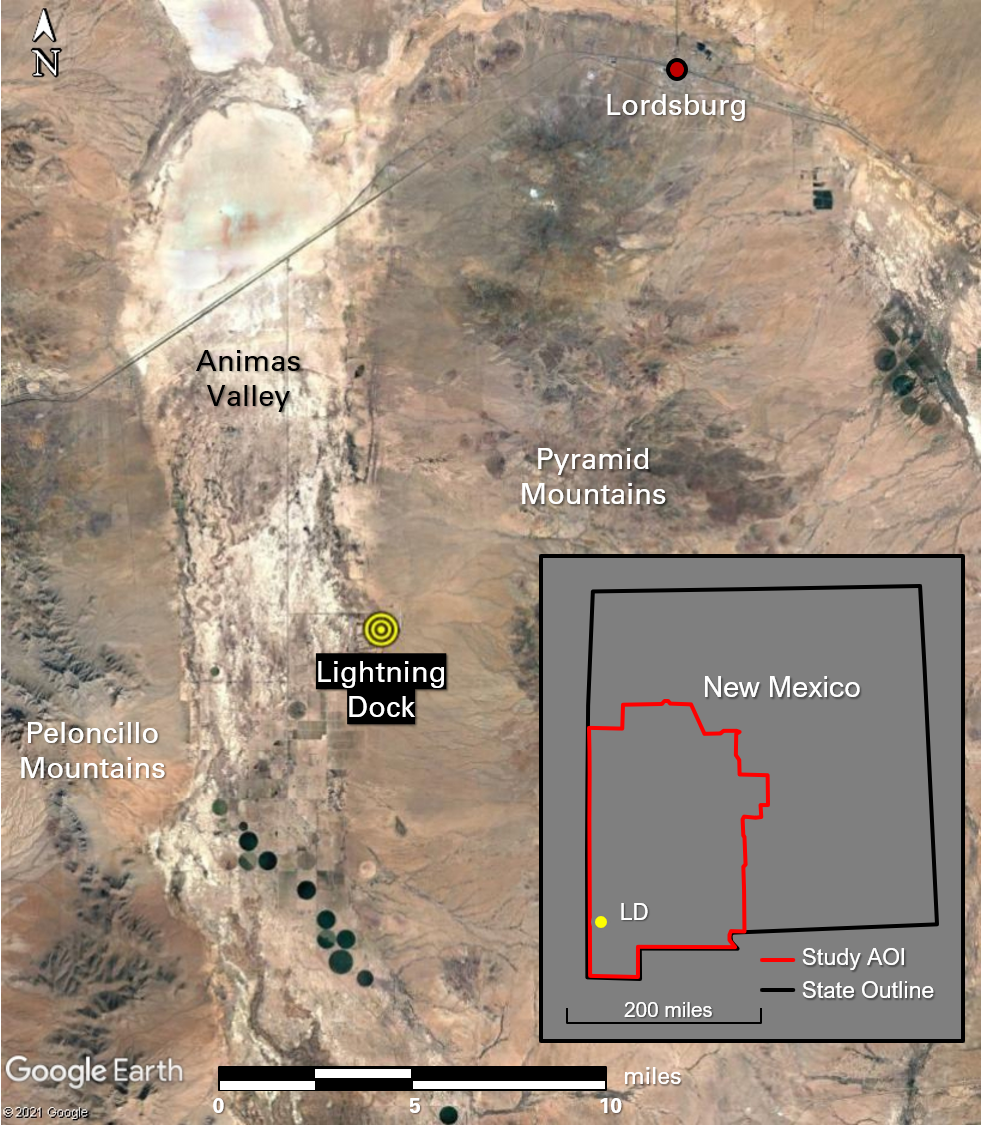
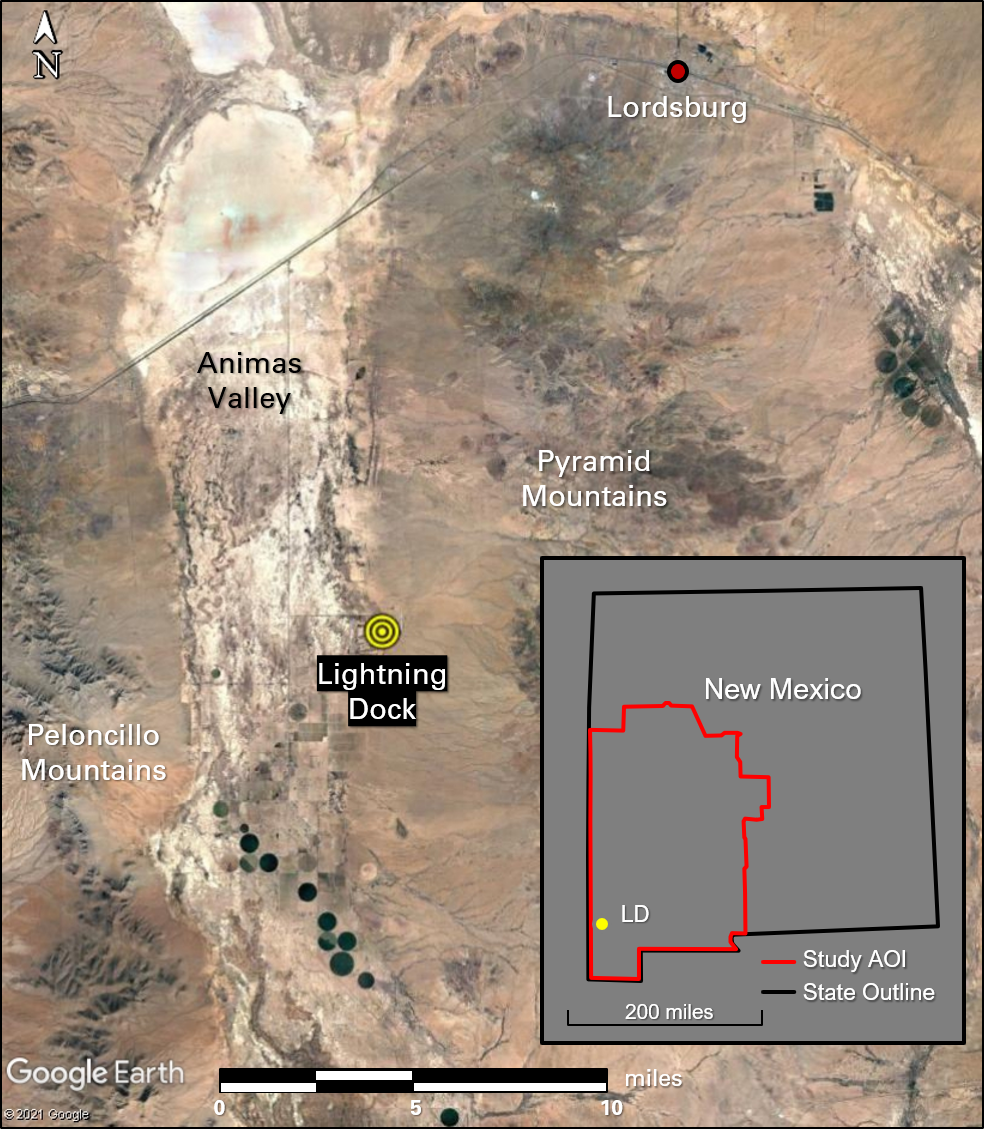
Finished section on Lightning Dock

diff --git a/templates/chap2.tex b/templates/chap2.tex
@@ -35,7 +35,7 @@ Conduction dominates on local scales in the crust, while convection is the prima
 \begin{equation}\label{eq:convection}
 \frac{\partial T}{\partial t} = \frac{1}{\rho c_P}\nabla\bullet\left(k\nabla T\right)-{\bf u}\bullet\nabla T
 \end{equation}
-where \textbf{u} = ($u_x$, $u_z$) is the velocity of the fluid, $\rho$ is the material density, and $c_P$ is the specific heat, which defines the amount of heat necessary to raise 1 kg of that material by $1$ K. Convection combines heat transfer from conduction with mass movement. Since the minerals are relatively poor conductors of heat, the combined effects of lower viscosity and thermal expansion --– as seen near the core-mantle boundary –- and gravitational forces responsible for buoyancy effects, all create the right conditions for convective flow \citep[p.\ 25]{glassley_geothermal_2015}. Mantle convection is responsible for the high heat-flow values observed at crustal-plate boundaries like mid-ocean ridges, as well as intraplate diapiric hot spots underlying Hawaii, Yellowstone, and several other locations around the world. Smaller-scale convection also takes place at subduction zones where the material from the down-diving plate melts at lower temperatures with the presence of water, migrates upwards, and forms volcanic arcs on the surface as observed in Japan, Indonesia, and the Pacific Northwest of the U.S.\ \citep[p.\ 31-33]{press_understanding_2004} --– all locations with geothermal potential.
+where \textbf{u} = ($u_x$, $u_z$) is the velocity of the fluid, $\rho$ is the material density, and $c_P$ is the specific heat, which defines the amount of heat necessary to raise 1 kg of that material by $1$ K. Convection combines heat transfer from conduction with mass movement. Since the minerals are relatively poor conductors of heat, the combined effects of lower viscosity and thermal expansion --– as seen near the core-mantle boundary –- and gravitational forces responsible for buoyancy effects, all create the right conditions for convective flow \citep[p.\ 25]{glassley_geothermal_2015}. Mantle convection is responsible for the high heat-flow values observed at crustal plate boundaries like mid-ocean ridges, as well as intraplate diapiric hot spots underlying Hawaii, Yellowstone, and several other locations around the world. Smaller-scale convection also takes place at subduction zones where the material from the down-diving plate melts at lower temperatures with the presence of water, migrates upwards, and forms volcanic arcs on the surface as observed in Japan, Indonesia, and the Pacific Northwest of the U.S.\ \citep[p.\ 31-33]{press_understanding_2004} --– all locations with geothermal potential.
 
 Heat-flow measurements capture the flux of heat through the Earth’s surface as a result of these and other complex processes taking place in the subsurface. In this respect, it serves as a simpler and more accessible metric for local or regional heat potential than the more sparsely-measured geothermal gradient. Today, high-quality heat flow measurements can be obtained in marine conditions, along continental margins, on mid-ocean ridges, and from the multitude of wells drilled by the oil \& gas industry, supporting the creation of large heat-flow data sets like the New Global Heat Flow Database \citep{lucazeau_analysis_2019}. As Figure \ref{fig:heatflow} shows, data from these collections can be gridded to create spectacular maps of heat flow variations around the world. These maps offer a good starting point for quickly targeting where the greatest geothermal potential exists at the regional scale, which can then be further refined through additional methods (see Section \ref{ch2:geoexp}).
 
@@ -102,8 +102,7 @@ In some cases, the potential for a geothermal system exists even when one or mor
 \label{fig:egs_schematic}
 \end{figure}
 
-EGS can provide the bridge between geothermal use in niche hydrothermal environments and a more comprehensive adoption of geothermal energy for electricity generation across the United States. The sources of subsurface heat (see Section \ref{ch2:heatorig}) exist everywhere, so accessing a range of temperatures that could support power production relies on drilling deep enough and creating the artificial conditions necessary for heat capture. \acrlong{lanl} (\acrshort{lanl}) validated the EGS approach in crystalline rock at Fenton Hill beginning in 1974. Feasibility studies followed soon thereafter in Japan, Germany, the U.K., and France \citep{breede_systematic_2013}. Among the most notable EGS projects that provided key lessons %learned
-are The Geysers (U.S.), Soultz-sous-Forêts (France), and Cooper Basin (Australia). The Geysers stands out as the largest geothermal power-generating complex in the world, providing $\approx1,000$ MWe for California even after 60 years of steam production \citep{jelacic_evaluation_2008,williams_assessment_2008}. Although drilling issues and public concern over induced seismicity halted efforts \citep{manish03_united_2009}, rock-stimulation experiments in the Northwest Geysers proved distinct reservoirs can be developed adjacent to active hydrothermal operations \citep{pan_establishment_2019}. The Soultz project commenced in 1987 with one injector and two producers drilled to 5 km depth to support a 1.5 MW power plant built in 2007-2008 \citep[p.\ 463]{dipippo_geothermal_2012}. In addition to many experimental lessons learned around drilling, hydrofracturing, chemical stimulation, scaling and corrosion, Soultz today supports both electricity production and direct-use district heating \citep{durst_overview_2013}. Cooper Basin, the largest EGS demonstration project in the world, showed great promise after a 6-year proof-of-concept phase \citep{stephens_assessing_2010}. However, the project halted in 2015 due poor stimulation results tied to an unrecognized fault, highlighting the importance of robust structural appraisal in assessing geothermal prospects \citep{holl_what_2015}. 
+EGS can provide the bridge between geothermal use in niche hydrothermal environments and a more comprehensive adoption of geothermal energy for electricity generation across the United States. The sources of subsurface heat (see Section \ref{ch2:heatorig}) exist everywhere, so accessing a range of temperatures that could support power production relies on drilling deep enough and creating the artificial conditions necessary for heat capture. \acrlong{lanl} (\acrshort{lanl}) validated the EGS approach in crystalline rock at Fenton Hill beginning in 1974. Feasibility studies followed soon thereafter in Japan, Germany, the U.K., and France \citep{breede_systematic_2013}. Among the most notable EGS projects that provided key lessons learned are The Geysers (U.S.), Soultz-sous-Forêts (France), and Cooper Basin (Australia). The Geysers stands out as the largest geothermal power-generating complex in the world, providing $\approx1,000$ MWe for California even after 60 years of steam production \citep{jelacic_evaluation_2008,williams_assessment_2008}. Although drilling issues and public concern over induced seismicity halted efforts \citep{larson_altarock_2009}, rock-stimulation experiments in the Northwest Geysers proved distinct reservoirs can be developed adjacent to active hydrothermal operations \citep{pan_establishment_2019}. The Soultz project commenced in 1987 with one injector and two producers drilled to 5 km depth to support a 1.5 MW power plant built in 2007-2008 \citep[p.\ 463]{dipippo_geothermal_2012}. In addition to many experimental lessons learned around drilling, hydrofracturing, chemical stimulation, scaling and corrosion, Soultz today supports both electricity production and direct-use district heating \citep{durst_overview_2013}. Cooper Basin, the largest EGS demonstration project in the world, showed great promise after a 6-year proof-of-concept phase \citep{stephens_assessing_2010}. However, the project halted in 2015 due poor stimulation results tied to an unrecognized fault, highlighting the importance of robust structural appraisal in assessing geothermal prospects \citep{holl_what_2015}. 
 
 As the fate of these projects might suggest, the long-standing promise of EGS has not yet been fully realized. However, several active projects supported by the \acrlong{nrel} (\acrshort{nrel}) and the DOE (e.g., EDGE, FORGE, EGS Collab) are providing the insights necessary to mature subsurface models, drilling technologies, and stimulation methods for more widespread EGS adoption \citep{hamm_geothermal_2021}. And recent technology advances and partnerships involving start-ups Fervo Energy \citep{moss_google_2021,shieber_geothermal_2021}, Deep Earth Energy \citep{geoenergy_saskatchewan_2021}, Eavor Technologies \citep{ross_energy_2020}, and Climeon \citep{climeon_climeon_2021,geoenergy_baseload_2020} show there is a growing fervor to overcome the technology roadblocks currently holding EGS back. Projections show the size of the prize with success in EGS. Assuming a maximum cut-off depth of 7 km and a minimum reservoir temperature of 150$^\circ$C, the EGS resource potential for electricity production in the continental United States might be at least 5,150 GWe, with an additional $\approx1,500$ MWe from Near Hydrothermal Field-EGS (\acrshort{nfegs}) \citep{augustine_geovision_2019}. To put this opportunity into context: the total utility-scale electricity generation capacity from \underline{all} sources in the United States was $\approx1,200$ GWe in 2019, over 4$\times$ less in magnitude than the predicted EGS potential \citep{eia_electric_2020}.
 
@@ -171,7 +170,7 @@ Temperature survey      & heat flow, geothermal gradient
 
 Geologic field mapping in an area can provide crucial direct evidence supporting the presence of geothermal systems. Surface manifestations like geysers, vents, and mud pots may also be coincident with mappable mineralogic indicators of the subsurface chemistry and style of geothermal activity.  Volcanic-based geothermal systems tend to have acid-sulfate waters with hydrogen sulfide-rich brines that leave behind sulfur deposits \citep[p.\ 123]{glassley_geothermal_2015}. Bicarbonate geothermal waters can produce distinctive travertine terraces or subaqueous tufa deposits, as well as a unique variety of K-spar called adularia \citep[p.\ 125]{glassley_geothermal_2015}. And chloride geothermal fluids are known to precipitate sinter or geyserite deposits composed of opal or amorphous silica \citep[p.\ 125]{glassley_geothermal_2015}. Elevated abundances of trace elements like boron and lithium typically occur in chloride brines compared to meteoric (derived from precipitation) waters, so their presence in mineral assemblages is also diagnostic \citep{bielicki_hydrogeolgic_2015, millot_multi-isotopic_2007}. Other valuable products of a geologic survey include maps of surface fault patterns to better constrain the structural history, as well as volcanic intrusive (dikes) and extrusive (flows) features for understanding the thermal history and potential deeper reservoir potential.
 
-Direct geochemical analysis of springs, pools, and samples collected from wells provides additional insights into the hydrologic characteristics of an area. Water chemistry offers information on the dominant resource fluid phase (vapor vs.\ liquid), the temperature of the subsurface formations encountered by the fluids, and the nature of the original water source \citep[p.\ 25]{dipippo_geothermal_2012}. The concentration or equilibria of different elements e.g., quartz, chalcedony, sodium, potassium, and calcium, can be compared to empirically-derived trends for reservoir-temperature estimates \citep[p.\ 157]{glassley_geothermal_2015}. These geothermometry methods offer insights into the deep thermal regime, although uncertainty around fluid migration pathways disallows any clear designation of the exact location and depth of a thermal reservoir.
+Direct geochemical analysis of springs, pools, and samples collected from wells provides additional insights into the hydrologic characteristics of an area. Water chemistry offers information on the dominant resource fluid phase (vapor vs.\ liquid), the temperature of the subsurface formations encountered by the fluids, and the nature of the original water source \citep[p.\ 25]{dipippo_geothermal_2012}. The concentration or equilibria of different elements, e.g., quartz, chalcedony, sodium, potassium, and calcium, can be compared to empirically-derived trends for reservoir temperature estimates \citep[p.\ 157]{glassley_geothermal_2015}. These geothermometry methods offer insights into the deep thermal regime, although uncertainty around fluid migration pathways disallows any clear designation of the exact location and depth of a thermal reservoir.
 
 Field methods like water sampling and geologic mapping provide local insights that can be aggregated for a bigger picture understanding of an area, with the caveat that field data are often limited in number and spatial distribution. Aerial and satellite surveys gather regionally-extensive measurements without the spatial sampling bias implicit in field activities. High-resolution topography captured in \acrlong{dem} (\acrshort{dem}) and DEM gradient (slope) can reveal morphology patterns tied to surface water drainage and recharge potential for deeper geothermal systems. Other optical products provide additional information of value; infrared imagery captures thermal anomalies in the shallow subsurface, stereographic images emphasize fault offsets missed in the field, and hyperspectral imaging can discriminate between different mineral assemblages, including geothermally-sourced boron-rich accumulations \multicitep{dipippo_geothermal_2012, p.\ 22;glassley_geothermal_2015, p.\ 154-155}.
 
@@ -227,7 +226,7 @@ This thesis considers a modeling approach where all three types of uncertainty a
 
 Geothermal facilities share similarities with many other methods of energy capture. Fundamentally, the primary value function at the center of a facility is producing power, further specified as a turbine generating electricity (Figure \ref{fig:solution_neutral}). This solution-neutral function could be specified into a variety of concepts that involve different operands --- wind, solar, water, hydrocarbons --- to produce the same result.  For geothermal, the common concepts include steam plants, flash plants, and binary cycle plants. Each concept has a range of temperatures and typical depths over which it is best suited to operate. Additional applications for geothermal are depicted in Figure \ref{fig:geotherm_apps}, including heat pumps and direct use, however those concepts abstract to a different functional intent than energy production. Also shown are specific types of geothermal systems like hot sedimentary basins, co-production from non-geothermal wells, and EGS. Note that the EGS oval could extend shallower for tight reservoirs as proposed in Chapter 4, but deeper wells (> 3-5 km) become more challenging to justify primarily due to cost of drilling \citep{moore_more_2013}.
 
-\begin{figure}[htp!]
+\begin{figure}%[htp!]
 \centering
 \includegraphics[width=\textwidth]{templates/images/Figure-Geothermal_Use_Moore2013.png}
 \caption[Geothermal applications by temperature and depth]{Traditional temperatures and depths associated with different geothermal applications. Boiling point defines the upper bound for geothermal use. Ellipses are approximate. Figure adapted from \protect\citep{moore_more_2013}.}
@@ -279,7 +278,8 @@ Because natural drive of the brine from subsurface to surface diminishes at lowe
 \label{fig:binary_plant}
 \end{figure}
 
-\section{Cost Modeling}\label{ch2:costmod}
+\section{Cost Modeling}
+\label{ch2:cost_models}
 
 \subsection{Review of Approaches}
 
@@ -312,18 +312,20 @@ The \acrlong{cp} (\acrshort{cp}) province presents a very different geologic pic
 
 On the western side of the AOI is the \acrlong{mdvf} (\acrshort{mdvf}), a 15,000 square mile outpouring of rhyolitic flows as part of a super-eruptive episode in western New Mexico that preceded rifting in the RGR province \citep{keller_rio_1999}. The timing indicates the thermal source for the MDVF magmas likely originated from a Farallon subduction-related event rather than onset of extension, and extrusive activity only represents a fraction of the total magma volume in the underlying composite pluton \citep{olsen_rio_1987,schneider_crustal_1994}. MDVF is just one of several Late Eocene-Oligocene volcanic fields in a chain from Colorado though to central Mexico, and isotopic dating defines four pulses of surface activity beginning 36 Ma near Las Cruces, NM and ending conclusively 24 Ma after a general westward migration \citep{mcintosh_time-stratigraphic_1992}. Lack of consistent trends in current heat flow measurements across the field match the heterogeneous distribution of volcanic features and extrusive volumes \citep{mcintosh_time-stratigraphic_1992}, although some evidence suggests greater water availability and geothermometry measurements make MDVF worth considering for geothermal exploration \citep{pepin_new_2018}.
 
-\subsection{Lightning Dock (DBGF)} 
+\subsection{Lightning Dock} 
 \label{ch2:lightning_dock}
 
 \begin{wrapfigure}{R}{0.65\linewidth}%[!htp]
 \centering
 \includegraphics[scale=0.6]{templates/images/Figure-Lightning_Dock_Location_composite.png}
-\caption[Lightning Dock location map]{CAPTION}
+\caption[Lightning Dock location map]{Map location of the Lightning Dock power plant. Inset map shows the facility in relationship to the state of NM and study area of interest for Chapters \ref{ch3:expl_prep} and \ref{ch5:expl_ml} of this thesis. Map created using Google Earth.}
 \label{fig:lightning_dock_map}
 \end{wrapfigure}
 
-Present-day commercial geo-thermal activity in New Mexico is limited to a single hydrothermal power plant in Hidalgo County, which defines the boot heel in the southwestern corner of the state (Figure \ref{fig:lightning_dock_map}). The power plant, traditionally known as Lightning Dock and recently renamed the Dale Burgett Geothermal Facility, sits atop a known geothermal resource area documented by the USGS in 1974 \citep{dahal_evaluation_2012}, around twenty (20) miles southwest of Lordsburg, NM. Although the hydrothermal resource was originally blind, boiling water was encountered in 1948 by drilling operations for water wells \citep{elston_geology_1983}. Commercial use of the resource dates back to 1977 to support greenhouse facilities and later, in the 1990s, for aquaculture \citep{crowell_history_2014}. Power production commenced in 2013 under the ownership of Cyrq Energy with a 4 MW air-cooled binary cycle power plant composed of four (4) power blocks \citep{goodman_lightning_2013}. \acrlong{pnm} (\acrshort{pnm}) signed a long-term \acrlong{ppa} (\acrshort{ppa}) for the generated electricity \citep{dahal_evaluation_2012}, as encouraged by the New Mexico \acrlong{rps} (\acrshort{rps}) carve-out for 5\% non-wind, non-solar renewable technologies \citep{dsire_dsire_2021}. Lightning Dock was fully revamped in 2018 by Turboden to its present-day 11.2 MW (net) single-turbine binary cycle architecture \citep{bonafin_repowering_2019}. The twenty (20)-year PPA with PNM was reset and secures power sales through 2038 \citep{oconnell_matter_2018}.
+Present-day commercial geo-thermal activity in New Mexico is limited to a single hydrothermal power plant in Hidalgo County, which defines the boot heel in the southwestern corner of the state (Figure \ref{fig:lightning_dock_map}). The power plant, traditionally known as Lightning Dock and recently renamed the Dale Burgett Geothermal Facility, sits atop a known geothermal resource area documented by the USGS in 1974 \citep{dahal_evaluation_2012}, around twenty (20) miles southwest of Lordsburg, NM. Although the hydrothermal resource was originally blind, boiling water was encountered in 1948 by drilling operations for water wells \citep{elston_geology_1983}. Commercial use of the resource dates back to 1977 to support greenhouse facilities and later, in the 1990s, for aquaculture \citep{crowell_history_2014}. Power production commenced in 2013 under the ownership of Cyrq Energy with a 4 MW air-cooled binary cycle power plant composed of four power blocks \citep{goodman_lightning_2013}. \acrlong{pnm} (\acrshort{pnm}) signed a long-term \acrlong{ppa} (\acrshort{ppa}) for the generated electricity \citep{dahal_evaluation_2012}, as encouraged by the New Mexico \acrlong{rps} (\acrshort{rps}) carve-out for 5\% non-wind, non-solar renewable technologies \citep{dsire_dsire_2021}. Lightning Dock was fully revamped in 2018 by Turboden to its present 11.2 MW (net) single-turbine binary cycle architecture \citep{bonafin_repowering_2019}. The 20-year PPA with PNM was reset and secures power sales through 2038 \citep{oconnell_matter_2018}.
 
+The Lightning Dock facility is found on the eastern side of the Animas Valley, which lies at the northern extent of the Mexican Highland in the eastern Basin and Range province (BR) \citep{cunniff_final_2005}. The bounding mountain ranges are the Pyramid Mountains to the east and Pelocillo Mountains to the west (Figure \ref{fig:lightning_dock_map}). As is typical for the BR, this surface geography is diagnostic of a fault-bounded graben architecture. Lightning Dock leverages the bounding Animas Valley fault to access deep-sourced hydrothermal waters for power production. Interestingly, this fault ties to the ring fracture zone of a 20-km wide Oligocene volcanic feature known as Muir Cauldron \citep{elston_geology_1983}. The exact heat source responsible for hydrothermal activity remains in question, but geochemical analysis suggests circulation of 250$^\circ$C waters from depths of 6-8 km \citep{schochet_development_2001}. These fluids upwell within the fault zone and intermingle with cool groundwater fed by runoff from the neighboring highlands, creating the lower-temperature brine at 150-170$^\circ$C targeted by Lightning Dock \citep{crowell_history_2014}.
 
+Prior to the construction of Lightning Dock, \citet{schochet_development_2001} submitted a proposed development plan for a hybrid hydrothermal-EGS project to the DOE. Similar to the Lightning Dock design, hydrothermal fluids would be produced from shallow depths (<1 km). In addition, the $\approx$600 m thick Horquilla Limestone formation could be treated as an EGS reservoir to supplement the hydrothermal power production and serve as a proof of concept for commercial EGS \citep{schochet_development_2001}. The proposal provided a cost analysis for two possible power plant sizes using most-likely values for variables and a single deterministic estimate of total plant and field cost \citep[Table 3]{schochet_development_2001}. Although the proposal was never executed, the concept of combining the Lightning Dock power plant with an EGS expansion is an intriguing modern-day extension of Schochet and Cunniff’s vision. However, such a project would come with many financial risks tied to operations, resource management, and external market factors. This thesis considers how that risk might be mitigated through cost modeling that accounts for uncertainty in the model parameters and the potential for just-in-time strategic decision-making. Such an approach goes beyond the cost models described in Section \ref{ch2:cost_models} and the simple cost analysis performed by \citet{schochet_development_2001}, treating the project as a system with its own dynamics and emergent financial results.
 
 \section{Recap}

diff --git a/templates/chap4.tex b/templates/chap4.tex
@@ -47,7 +47,7 @@ Limiting this expansion to a single 5 MW facility represents one design alternat
 \end{figure}
 
 \subsection{Flexible Cost Models}
-As discussed in Section \ref{ch2:costmod}, cost models can provide insights into the potential value gained or lost by a proposed facility before construction even begins. Well-established geothermal cost models like GETEM \citep{entingh_volume_2006} present a highly parameterized but deterministic view of cost and investment opportunity given a defined geothermal resource and development concept. Other models may apply different assumptions or mathematical treatments for various facets of the system, however they uniformly offer a single-track aspect to how the project unfolds over its lifecycle. Users can test ideas, but the solution space remains under-explored due to implicit assumptions of variable trends or static behaviors for a highly-dynamic system.  
+As discussed in Section \ref{ch2:cost_models}, cost models can provide insights into the potential value gained or lost by a proposed facility before construction even begins. Well-established geothermal cost models like GETEM \citep{entingh_volume_2006} present a highly parameterized but deterministic view of cost and investment opportunity given a defined geothermal resource and development concept. Other models may apply different assumptions or mathematical treatments for various facets of the system, however they uniformly offer a single-track aspect to how the project unfolds over its lifecycle. Users can test ideas, but the solution space remains under-explored due to implicit assumptions of variable trends or static behaviors for a highly-dynamic system.  
 
 In the cost models outlined below, the economic analysis incorporates uncertainty by replacing single value estimates with distributions for model variables. This enables the model to produce a representative range of possible outcomes when simulated many times over. In addition, the model flexibly adapts by executing design options, where model updates triggered by changing conditions allow the system to realize upside potential or characterize the extent of downside risk. Designs need not be static, and flexibilities can greatly increase the expected value of a project by exploring execution strategies otherwise missed by more traditional modeling approaches \citep[chap.6]{de_neufville_flexibility_2011}.
 
